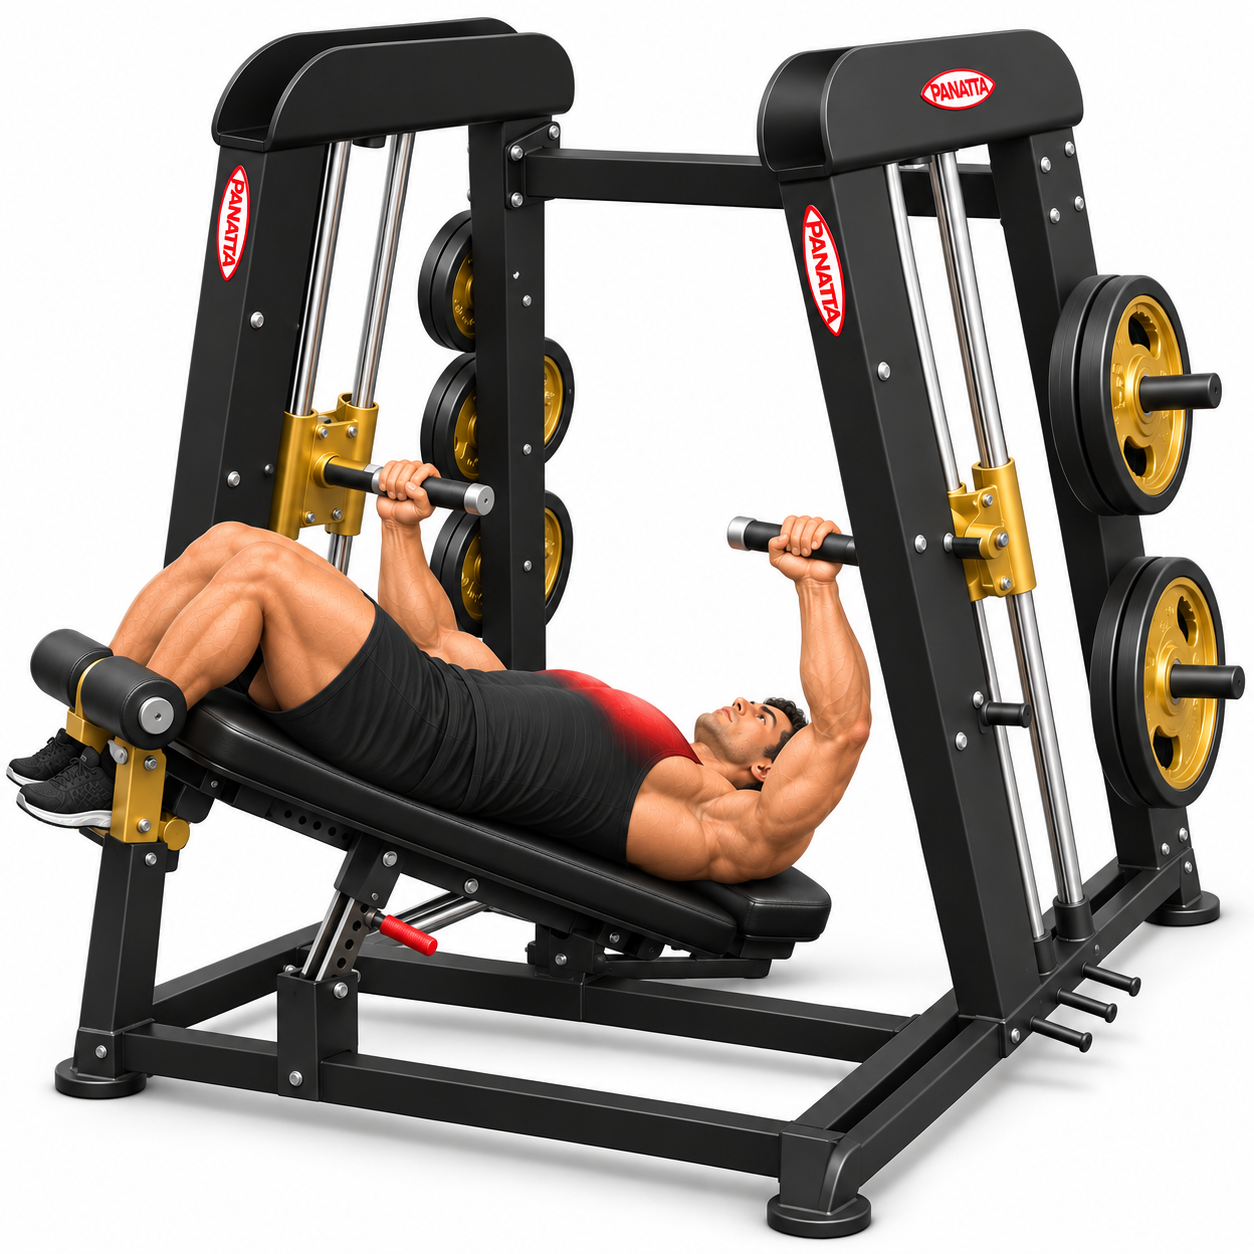
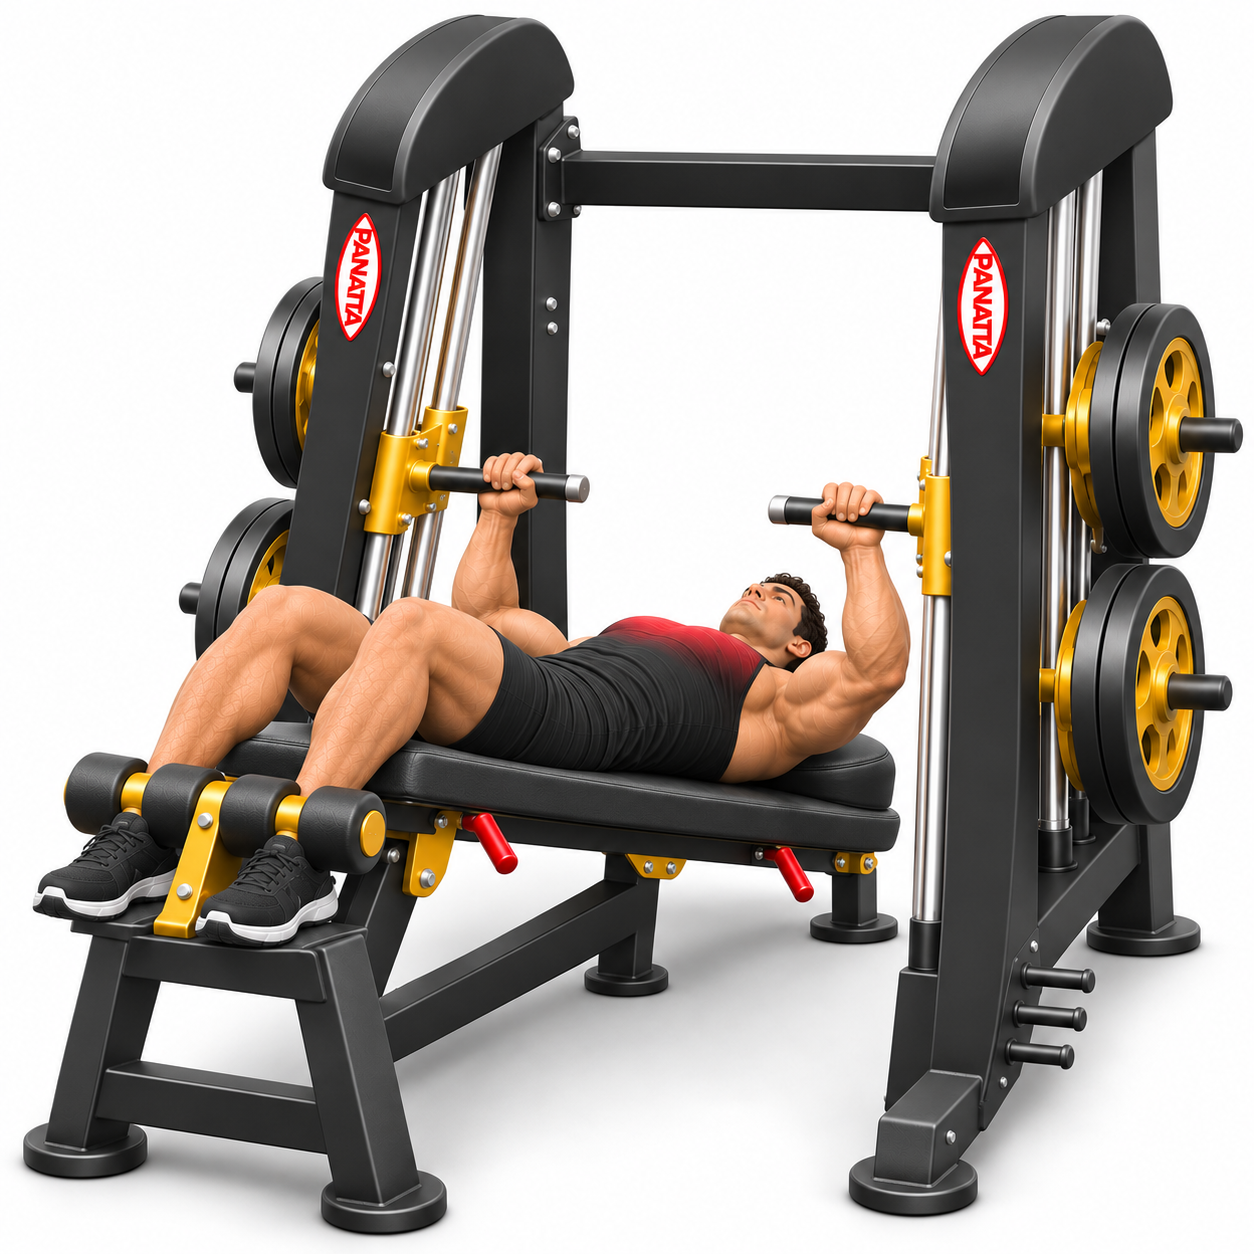
Update Decline Chest Press with approved Panatta illustration (#34)

diff --git a/sw.js b/sw.js
@@ -1,14 +1,14 @@
-const CACHE = "cumpafit-v58";
+const CACHE = "cumpafit-v59";
 const FILES = [
   "./index.html",
-  "./styles.css?v=58",
-  "./app.js?v=58",
-  "./demo-mode.js?v=58",
-  "./manifest.webmanifest?v=58",
-  "./assets/icon.svg?v=58",
-  "./assets/apple-touch-icon.png?v=58",
-  "./assets/icon-192.png?v=58",
-  "./assets/icon-512.png?v=58"
+  "./styles.css?v=59",
+  "./app.js?v=59",
+  "./demo-mode.js?v=59",
+  "./manifest.webmanifest?v=59",
+  "./assets/icon.svg?v=59",
+  "./assets/apple-touch-icon.png?v=59",
+  "./assets/icon-192.png?v=59",
+  "./assets/icon-512.png?v=59"
 ];
 const IMAGE_CACHE = "cumpafit-images-v1";
 // Generated by scripts/update-image-manifest.cjs.
@@ -61,7 +61,7 @@ const IMAGE_FILES = {
   "./assets/overhead-dumbbell-triceps-extension.jpg": "f2268ab476ba8d08",
   "./assets/pajaros-mancuernas.jpg": "80db0fc9a3a34df5",
   "./assets/panatta-alternate-arm-curl-45.png": "cb8383f57a2734ab",
-  "./assets/panatta-power-smith-decline-chest-press.png": "71747928ad9a8d24",
+  "./assets/panatta-power-smith-decline-chest-press.png": "54b12008823792d1",
   "./assets/panatta-power-smith-flat-chest-press.png": "cc2998c2fd893d5c",
   "./assets/panatta-power-smith-upper-incline.png": "bded8454428edee6",
   "./assets/panatta-power-smith-upper-shoulder-press.png": "2896829a10adfad2",

diff --git a/index.html b/index.html
@@ -6,14 +6,14 @@
     <meta name="theme-color" content="#111b25" />
     <meta name="apple-mobile-web-app-capable" content="yes" />
     <meta name="apple-mobile-web-app-title" content="Cumpafit" />
-    <link rel="apple-touch-icon" sizes="180x180" href="./assets/apple-touch-icon.png?v=58" />
+    <link rel="apple-touch-icon" sizes="180x180" href="./assets/apple-touch-icon.png?v=59" />
     <meta name="description" content="Tu catálogo de ejercicios y registro de entrenamiento." />
     <title>Cumpafit · Rutinas</title>
-    <link rel="icon" type="image/svg+xml" href="./assets/icon.svg?v=58" />
-    <link rel="manifest" href="./manifest.webmanifest?v=58" />
-    <script src="./demo-mode.js?v=58"></script>
-    <link rel="stylesheet" href="./styles.css?v=58" />
-    <script src="./app.js?v=58" defer></script>
+    <link rel="icon" type="image/svg+xml" href="./assets/icon.svg?v=59" />
+    <link rel="manifest" href="./manifest.webmanifest?v=59" />
+    <script src="./demo-mode.js?v=59"></script>
+    <link rel="stylesheet" href="./styles.css?v=59" />
+    <script src="./app.js?v=59" defer></script>
   </head>
   <body>
     <aside id="demo-banner" class="demo-banner" aria-label="Demo mode">
